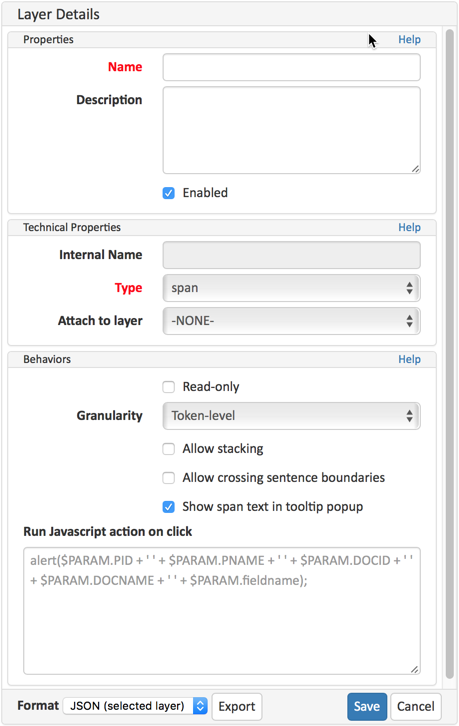
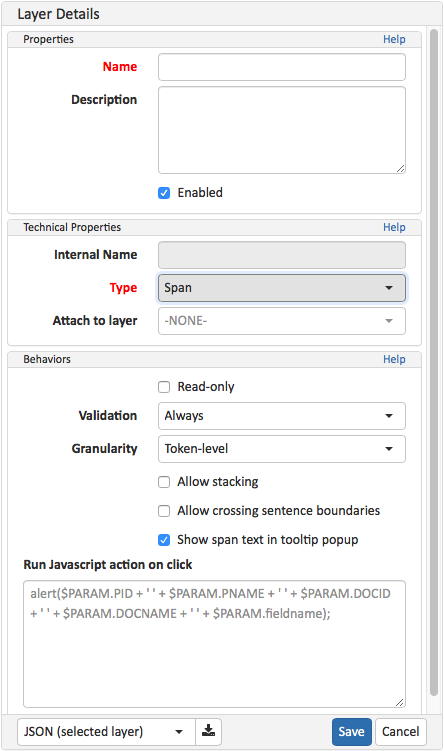
#1207 - Allow disabling validation
- Add option to control if validation happens or not
- Export/import the new setting
- Default to no validation for existing or imported projects where this setting did not exist yet
- By default enable validation for new layers/projects but disable validation for the Token layer
- Update documentation text and screenshot

diff --git a/webanno-ui-project/src/main/java/de/tudarmstadt/ukp/clarin/webanno/ui/project/layers/ProjectLayersPanel.html b/webanno-ui-project/src/main/java/de/tudarmstadt/ukp/clarin/webanno/ui/project/layers/ProjectLayersPanel.html
@@ -179,6 +179,14 @@
                         </div>
                       </div>
                     </div>
+                    <div class="form-group" wicket:enclosure="validationMode">
+                      <label wicket:for="validationMode" class="col-sm-4 control-label"> <wicket:label
+                          key="validationMode" />
+                      </label>
+                      <div class="col-sm-8">
+                        <select wicket:id="validationMode" class="form-control" data-container="body"></select>
+                      </div>
+                    </div>
                     <div class="form-group" wicket:enclosure="anchoringMode">
                       <label wicket:for="anchoringMode" class="col-sm-4 control-label"> <wicket:label
                           key="anchoringMode" />

diff --git a/webanno-ui-project/src/main/java/de/tudarmstadt/ukp/clarin/webanno/ui/project/layers/LayerDetailForm.java b/webanno-ui-project/src/main/java/de/tudarmstadt/ukp/clarin/webanno/ui/project/layers/LayerDetailForm.java
@@ -65,6 +65,7 @@ import de.tudarmstadt.ukp.clarin.webanno.export.model.ExportedAnnotationLayerRef
 import de.tudarmstadt.ukp.clarin.webanno.model.AnchoringMode;
 import de.tudarmstadt.ukp.clarin.webanno.model.AnnotationLayer;
 import de.tudarmstadt.ukp.clarin.webanno.model.Project;
+import de.tudarmstadt.ukp.clarin.webanno.model.ValidationMode;
 import de.tudarmstadt.ukp.clarin.webanno.support.JSONUtil;
 import de.tudarmstadt.ukp.clarin.webanno.support.bootstrap.select.BootstrapSelect;
 import de.tudarmstadt.ukp.clarin.webanno.support.lambda.LambdaAjaxButton;
@@ -95,6 +96,7 @@ public class LayerDetailForm
     private DropDownChoice<AnnotationLayer> attachTypes;
 
     private DropDownChoice<AnchoringMode> anchoringMode;
+    private DropDownChoice<ValidationMode> validationMode;
 
     private FeatureSelectionForm featureSelectionForm;
     private FeatureDetailForm featureDetailForm;
@@ -227,6 +229,11 @@ public class LayerDetailForm
 
         // Behaviors of layers
         add(new CheckBox("readonly"));
+
+        add(validationMode = new BootstrapSelect<ValidationMode>("validationMode"));
+        validationMode.setOutputMarkupPlaceholderTag(true);
+        validationMode.setChoiceRenderer(new EnumChoiceRenderer<>(this));
+        validationMode.setChoices(Arrays.asList(ValidationMode.values()));
 
         add(anchoringMode = new BootstrapSelect<AnchoringMode>("anchoringMode"));
         anchoringMode.setOutputMarkupPlaceholderTag(true);

diff --git a/webanno-export/src/main/java/de/tudarmstadt/ukp/clarin/webanno/export/ImportUtil.java b/webanno-export/src/main/java/de/tudarmstadt/ukp/clarin/webanno/export/ImportUtil.java
@@ -43,6 +43,7 @@ import de.tudarmstadt.ukp.clarin.webanno.model.AnnotationLayer;
 import de.tudarmstadt.ukp.clarin.webanno.model.Project;
 import de.tudarmstadt.ukp.clarin.webanno.model.Tag;
 import de.tudarmstadt.ukp.clarin.webanno.model.TagSet;
+import de.tudarmstadt.ukp.clarin.webanno.model.ValidationMode;
 import de.tudarmstadt.ukp.clarin.webanno.security.model.User;
 
 /**
@@ -156,6 +157,8 @@ public class ImportUtil
         else {
             aLayer.setAnchoringMode(aExLayer.getAnchoringMode());
         }
+        aLayer.setValidationMode(aExLayer.getValidationMode() != null ? aExLayer.getValidationMode()
+                : ValidationMode.NEVER);
         aLayer.setLinkedListBehavior(aExLayer.isLinkedListBehavior());
         aLayer.setUiName(aExLayer.getUiName());
         aLayer.setName(aExLayer.getName());
@@ -214,6 +217,7 @@ public class ImportUtil
         exLayer.setLockToTokenOffset(AnchoringMode.SINGLE_TOKEN.equals(aLayer.getAnchoringMode()));
         exLayer.setMultipleTokens(AnchoringMode.TOKENS.equals(aLayer.getAnchoringMode()));
         exLayer.setAnchoringMode(aLayer.getAnchoringMode());
+        exLayer.setValidationMode(aLayer.getValidationMode());
         exLayer.setLinkedListBehavior(aLayer.isLinkedListBehavior());
         exLayer.setName(aLayer.getName());
         exLayer.setProjectName(aLayer.getProject().getName());

diff --git a/webanno-api-dao/src/main/java/de/tudarmstadt/ukp/clarin/webanno/api/dao/export/exporters/LayerExporter.java b/webanno-api-dao/src/main/java/de/tudarmstadt/ukp/clarin/webanno/api/dao/export/exporters/LayerExporter.java
@@ -49,6 +49,7 @@ import de.tudarmstadt.ukp.clarin.webanno.model.AnnotationLayer;
 import de.tudarmstadt.ukp.clarin.webanno.model.Project;
 import de.tudarmstadt.ukp.clarin.webanno.model.Tag;
 import de.tudarmstadt.ukp.clarin.webanno.model.TagSet;
+import de.tudarmstadt.ukp.clarin.webanno.model.ValidationMode;
 
 @Component
 public class LayerExporter
@@ -110,6 +111,7 @@ public class LayerExporter
         exLayer.setLockToTokenOffset(AnchoringMode.SINGLE_TOKEN.equals(aLayer.getAnchoringMode()));
         exLayer.setMultipleTokens(AnchoringMode.TOKENS.equals(aLayer.getAnchoringMode()));
         exLayer.setAnchoringMode(aLayer.getAnchoringMode());
+        exLayer.setValidationMode(aLayer.getValidationMode());
         exLayer.setLinkedListBehavior(aLayer.isLinkedListBehavior());
         exLayer.setName(aLayer.getName());
         exLayer.setProjectName(aLayer.getProject().getName());
@@ -259,6 +261,8 @@ public class LayerExporter
         else {
             aLayer.setAnchoringMode(aExLayer.getAnchoringMode());
         }
+        aLayer.setValidationMode(aExLayer.getValidationMode() != null ? aExLayer.getValidationMode()
+                : ValidationMode.NEVER);
         aLayer.setLinkedListBehavior(aExLayer.isLinkedListBehavior());
         aLayer.setUiName(aExLayer.getUiName());
         aLayer.setName(aExLayer.getName());

diff --git a/webanno-model/src/main/java/de/tudarmstadt/ukp/clarin/webanno/model/ValidationMode.java b/webanno-model/src/main/java/de/tudarmstadt/ukp/clarin/webanno/model/ValidationMode.java
@@ -1,0 +1,50 @@
+/*
+ * Copyright 2019
+ * Ubiquitous Knowledge Processing (UKP) Lab and FG Language Technology
+ * Technische Universität Darmstadt
+ *
+ * Licensed under the Apache License, Version 2.0 (the "License");
+ * you may not use this file except in compliance with the License.
+ * You may obtain a copy of the License at
+ *
+ *  http://www.apache.org/licenses/LICENSE-2.0
+ *
+ * Unless required by applicable law or agreed to in writing, software
+ * distributed under the License is distributed on an "AS IS" BASIS,
+ * WITHOUT WARRANTIES OR CONDITIONS OF ANY KIND, either express or implied.
+ * See the License for the specific language governing permissions and
+ * limitations under the License.
+ */
+package de.tudarmstadt.ukp.clarin.webanno.model;
+
+import de.tudarmstadt.ukp.clarin.webanno.support.PersistentEnum;
+
+/**
+ * Validation mode.
+ */
+public enum ValidationMode
+    implements PersistentEnum
+{
+    /**
+     * Never validate.
+     */
+    NEVER("never"),
+    
+    /**
+     * Validate always.
+     */
+    ALWAYS("always");
+
+    private final String id;
+
+    ValidationMode(String aId)
+    {
+        id = aId;
+    }
+
+    @Override
+    public String getId()
+    {
+        return id;
+    }
+}

diff --git a/webanno-model/src/main/java/de/tudarmstadt/ukp/clarin/webanno/model/ValidationModeType.java b/webanno-model/src/main/java/de/tudarmstadt/ukp/clarin/webanno/model/ValidationModeType.java
@@ -1,0 +1,33 @@
+/*
+ * Copyright 2019
+ * Ubiquitous Knowledge Processing (UKP) Lab and FG Language Technology
+ * Technische Universität Darmstadt
+ *
+ * Licensed under the Apache License, Version 2.0 (the "License");
+ * you may not use this file except in compliance with the License.
+ * You may obtain a copy of the License at
+ *
+ *  http://www.apache.org/licenses/LICENSE-2.0
+ *
+ * Unless required by applicable law or agreed to in writing, software
+ * distributed under the License is distributed on an "AS IS" BASIS,
+ * WITHOUT WARRANTIES OR CONDITIONS OF ANY KIND, either express or implied.
+ * See the License for the specific language governing permissions and
+ * limitations under the License.
+ */
+package de.tudarmstadt.ukp.clarin.webanno.model;
+
+import de.tudarmstadt.ukp.clarin.webanno.support.PersistentEnumUserType;
+
+/**
+ * Implementation of {@link PersistentEnumUserType}
+ */
+public class ValidationModeType
+    extends PersistentEnumUserType<ValidationMode>
+{
+    @Override
+    public Class<ValidationMode> returnedClass()
+    {
+        return ValidationMode.class;
+    }
+}

diff --git a/webanno-model-export/src/main/java/de/tudarmstadt/ukp/clarin/webanno/export/model/ExportedAnnotationLayer.java b/webanno-model-export/src/main/java/de/tudarmstadt/ukp/clarin/webanno/export/model/ExportedAnnotationLayer.java
@@ -23,6 +23,7 @@ import com.fasterxml.jackson.annotation.JsonIgnoreProperties;
 import com.fasterxml.jackson.annotation.JsonProperty;
 
 import de.tudarmstadt.ukp.clarin.webanno.model.AnchoringMode;
+import de.tudarmstadt.ukp.clarin.webanno.model.ValidationMode;
 
 /**
  * All required contents of a project to be exported.
@@ -71,6 +72,9 @@ public class ExportedAnnotationLayer
     
     @JsonProperty("anchoring_mode")
     private AnchoringMode anchoringMode;
+    
+    @JsonProperty("validation_mode")
+    private ValidationMode validationMode;
     
     @Deprecated
     @JsonProperty("lock_to_token_offset")
@@ -167,6 +171,16 @@ public class ExportedAnnotationLayer
     public void setAttachType(ExportedAnnotationLayerReference attachType)
     {
         this.attachType = attachType;
+    }
+    
+    public ValidationMode getValidationMode()
+    {
+        return validationMode;
+    }
+
+    public void setValidationMode(ValidationMode aValidationMode)
+    {
+        validationMode = aValidationMode;
     }
 
     public void setAnchoringMode(AnchoringMode aAnchoringMode)

diff --git a/webanno-ui-annotation/src/main/java/de/tudarmstadt/ukp/clarin/webanno/ui/annotation/AnnotationPageBase.java b/webanno-ui-annotation/src/main/java/de/tudarmstadt/ukp/clarin/webanno/ui/annotation/AnnotationPageBase.java
@@ -53,6 +53,7 @@ import de.tudarmstadt.ukp.clarin.webanno.model.AnnotationFeature;
 import de.tudarmstadt.ukp.clarin.webanno.model.AnnotationLayer;
 import de.tudarmstadt.ukp.clarin.webanno.model.Mode;
 import de.tudarmstadt.ukp.clarin.webanno.model.SourceDocument;
+import de.tudarmstadt.ukp.clarin.webanno.model.ValidationMode;
 import de.tudarmstadt.ukp.clarin.webanno.support.dialog.ChallengeResponseDialog;
 import de.tudarmstadt.ukp.clarin.webanno.support.lambda.ActionBarLink;
 import de.tudarmstadt.ukp.clarin.webanno.support.lambda.LambdaModel;
@@ -400,6 +401,11 @@ public abstract class AnnotationPageBase
             if (!layer.isEnabled()) {
                 // No validation for disabled layers since there is nothing the annotator could do
                 // about fixing annotations on disabled layers.
+                continue;
+            }
+            
+            if (ValidationMode.NEVER.equals(layer.getValidationMode())) {
+                // If validation is disabled, then skip it
                 continue;
             }
             

diff --git a/webanno-model/src/main/java/de/tudarmstadt/ukp/clarin/webanno/model/AnnotationLayer.java b/webanno-model/src/main/java/de/tudarmstadt/ukp/clarin/webanno/model/AnnotationLayer.java
@@ -112,7 +112,11 @@ public class AnnotationLayer
     @Column(name = "anchoring_mode")
     @Type(type = "de.tudarmstadt.ukp.clarin.webanno.model.AnchoringModeType")
     private AnchoringMode anchoringMode = AnchoringMode.TOKENS;
-    
+
+    @Column(name = "validation_mode")
+    @Type(type = "de.tudarmstadt.ukp.clarin.webanno.model.ValidationModeType")
+    private ValidationMode validationMode = ValidationMode.ALWAYS;
+
     // This column is no longer used and should be removed with the next major version.
     // At that time, a corresponding Liquibase changeset needs to be introduced as well.
     @Deprecated
@@ -427,6 +431,16 @@ public class AnnotationLayer
         else if (!aLockToTokenOffset && aMultipleTokens) {
             anchoringMode = AnchoringMode.TOKENS;
         }
+    }
+
+    public ValidationMode getValidationMode()
+    {
+        return validationMode;
+    }
+
+    public void setValidationMode(ValidationMode aValidationMode)
+    {
+        validationMode = aValidationMode;
     }
 
     public boolean isAllowStacking()

diff --git a/webanno-api-dao/src/main/java/de/tudarmstadt/ukp/clarin/webanno/api/dao/initializers/TokenLayerInitializer.java b/webanno-api-dao/src/main/java/de/tudarmstadt/ukp/clarin/webanno/api/dao/initializers/TokenLayerInitializer.java
@@ -18,6 +18,7 @@
 package de.tudarmstadt.ukp.clarin.webanno.api.dao.initializers;
 
 import static de.tudarmstadt.ukp.clarin.webanno.api.WebAnnoConst.SPAN_TYPE;
+import static de.tudarmstadt.ukp.clarin.webanno.model.ValidationMode.NEVER;
 
 import java.io.IOException;
 import java.util.Collections;
@@ -55,6 +56,11 @@ public class TokenLayerInitializer
     {
         AnnotationLayer tokenLayer = new AnnotationLayer(Token.class.getName(), "Token", SPAN_TYPE,
                 aProject, true, AnchoringMode.SINGLE_TOKEN);
+        
+        // Since the user cannot turn off validation for the token layer if there is any kind of
+        // problem with the validation functionality we are conservative here and disable validation
+        // from the start.
+        tokenLayer.setValidationMode(NEVER);
 
         annotationSchemaService.createLayer(tokenLayer);
     }
